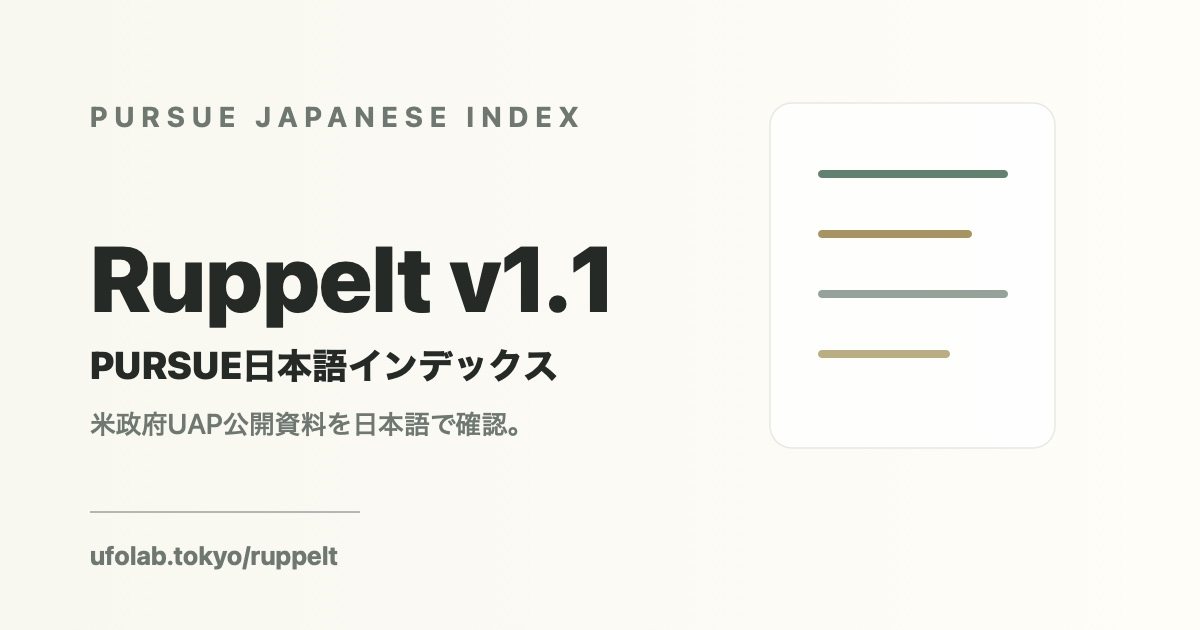
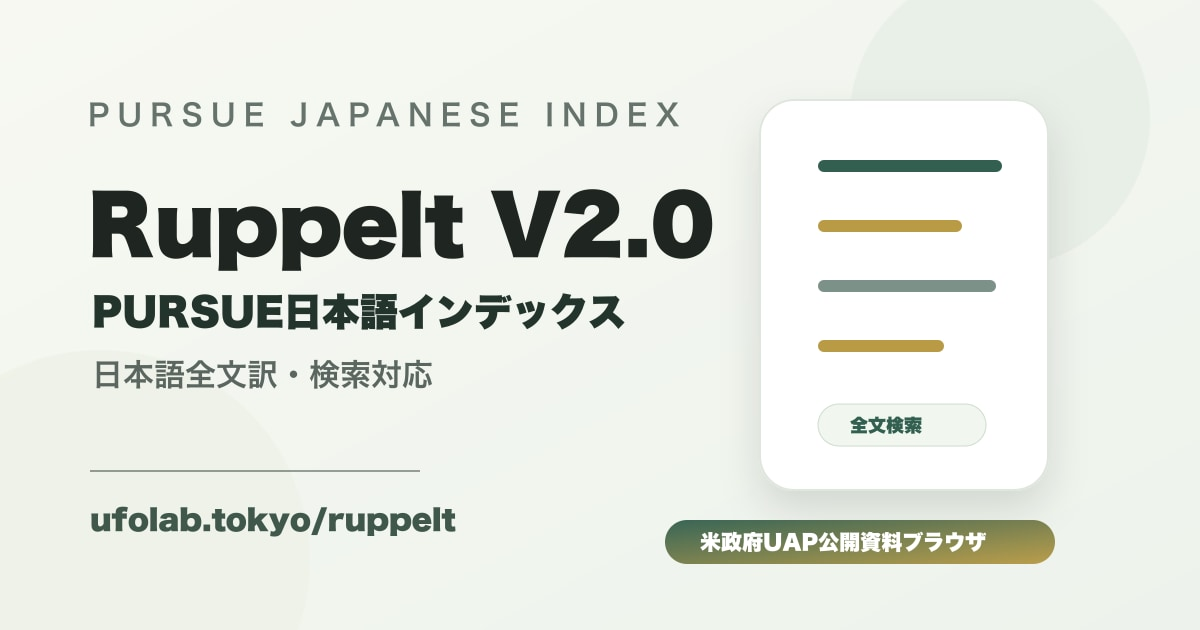
Fix Ruppelt X card image

diff --git a/app/ruppelt/page.tsx b/app/ruppelt/page.tsx
@@ -6,6 +6,7 @@ import pursueIndex from "@/data/pursue/pursue-records.json";
 import { RuppeltBrowser } from "@/components/RuppeltBrowser";
 import { SiteFooter } from "@/components/SiteFooter";
 import { siteConfig } from "@/lib/site";
+import { siteUrl } from "@/lib/seo";
 import { priorDisclosureLabels, type PriorDisclosureStatus, type PursueIndex } from "@/lib/pursue";
 
 const statusDashboardOrder: PriorDisclosureStatus[] = [
@@ -14,6 +15,7 @@ const statusDashboardOrder: PriorDisclosureStatus[] = [
   "previously_public",
   "unknown",
 ];
+const ruppeltOgpImage = `${siteUrl}/ogp-ruppelt-v2.jpg`;
 
 function getFullTextRecordIds() {
   try {
@@ -39,7 +41,7 @@ export const metadata: Metadata = {
     siteName: "UFO Lab Tokyo",
     images: [
       {
-        url: "/ogp-ruppelt-v2.jpg",
+        url: ruppeltOgpImage,
         width: 1200,
         height: 630,
         alt: "Ruppelt V2.0 - PURSUE日本語インデックス",
@@ -52,7 +54,7 @@ export const metadata: Metadata = {
     card: "summary_large_image",
     title: "Ruppelt V2.0 - PURSUE日本語インデックス",
     description: "アメリカ政府UAP公開資料をスマホでさくっと確認。",
-    images: ["/ogp-ruppelt-v2.jpg"],
+    images: [ruppeltOgpImage],
   },
   other: {
     "twitter:image:alt": "Ruppelt V2.0 - PURSUE日本語インデックス",

diff --git a/app/ruppelt/lp/page.tsx b/app/ruppelt/lp/page.tsx
@@ -9,7 +9,7 @@ const appHref = "/ruppelt";
 const brandHref = "/";
 const appUrl = `${siteUrl}${appHref}`;
 const lpUrl = `${siteUrl}/ruppelt/lp`;
-const ruppeltOgpImage = "/ogp-ruppelt-v2.jpg";
+const ruppeltOgpImage = `${siteUrl}/ogp-ruppelt-v2.jpg`;
 
 const metaTitle = "Ruppelt V2.0｜アメリカ政府UAP・UFO機密解除資料を日本語で検索";
 const metaDescription =
@@ -132,7 +132,7 @@ const ruppeltLpJsonLd = {
   url: appUrl,
   inLanguage: "ja-JP",
   description: metaDescription,
-  image: `${siteUrl}${ruppeltOgpImage}`,
+  image: ruppeltOgpImage,
   creator: {
     "@type": "Organization",
     name: siteName,
